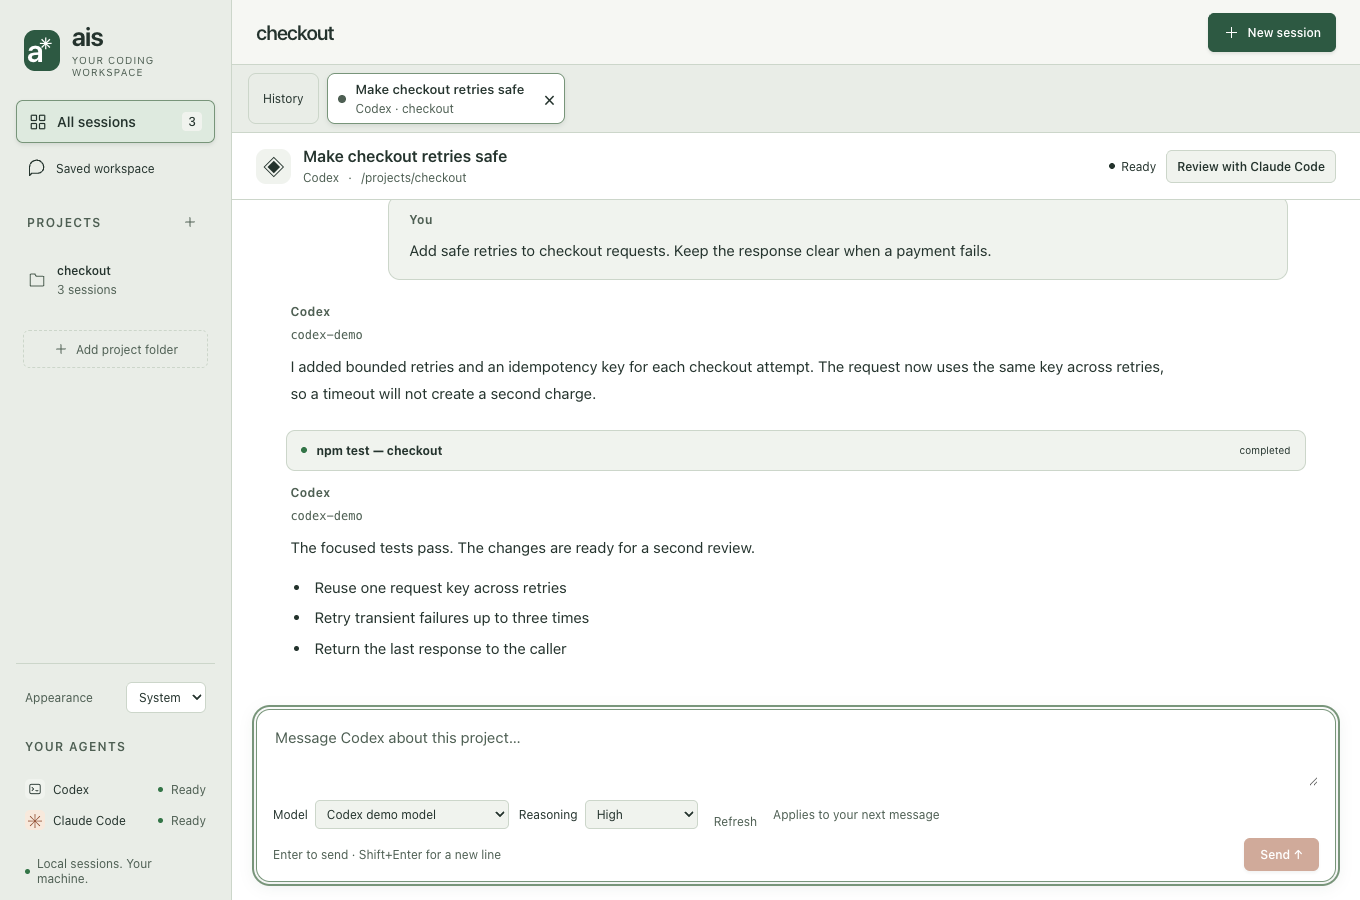
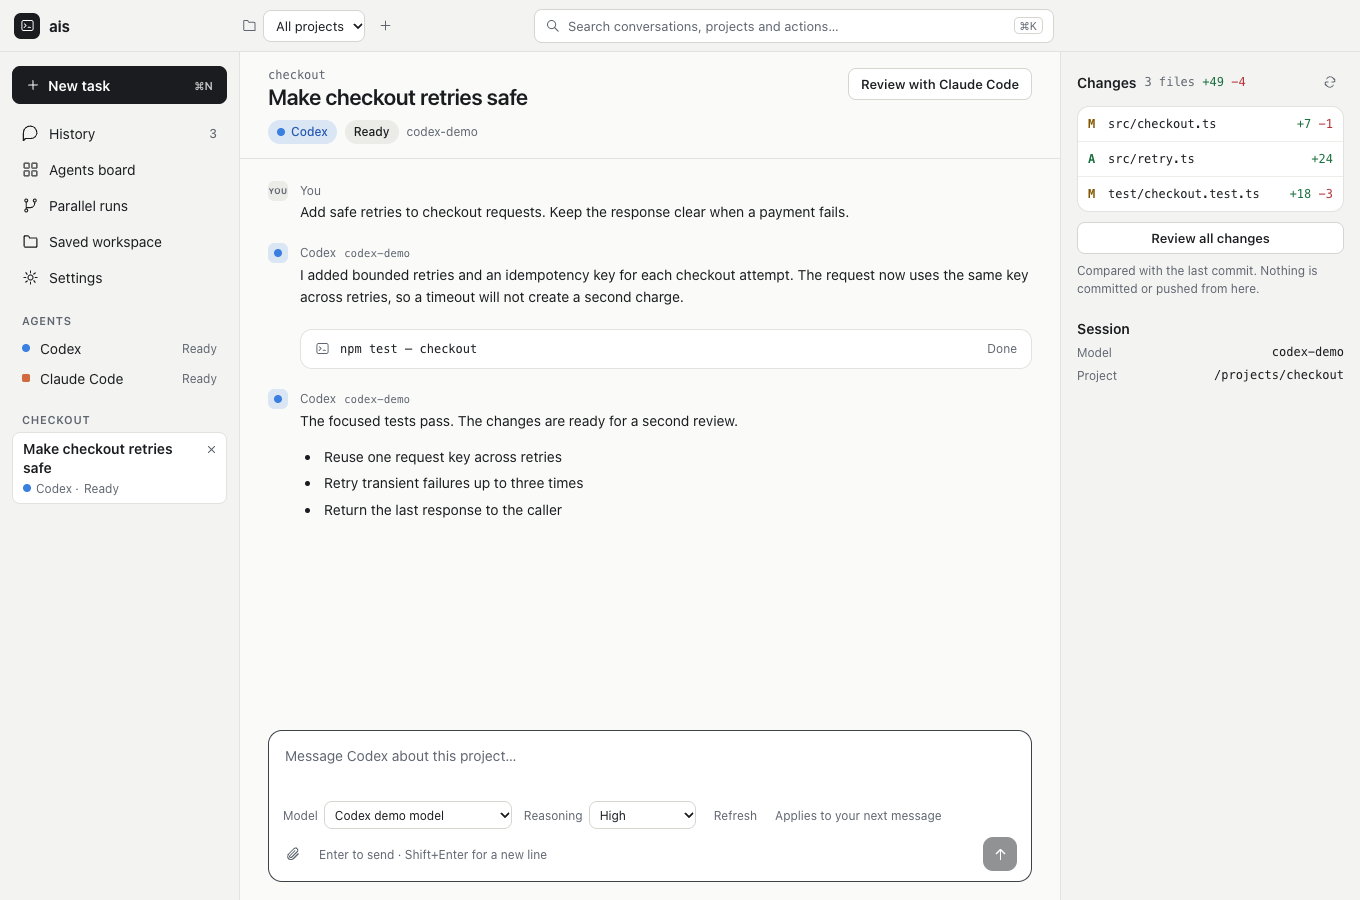
Update the desktop guide and screenshots for the redesigned app
The guide now describes the top bar, sidebar, command palette, agents
board, Changes panel, Settings and the new approval, stop and rename
flows. Screenshots are regenerated from the fixture checks, with new
captures of the board, palette and Settings. The roadmap points to #30.

Refs #30

Claude-Session: https://claude.ai/code/session_017ScqyAAUecnTB9rwNY9PY9

diff --git a/docs/DESKTOP.md b/docs/DESKTOP.md
@@ -65,11 +65,11 @@ is not yet published. The Homebrew CLI package does not install the desktop app.
 
 ## Screenshots
 
-Choose **System**, **Light**, or **Dark** under **Appearance** in the sidebar.
+Choose **System**, **Light**, or **Dark** under **Settings › Look**.
 System follows macOS appearance changes; an explicit choice stays active until
 you change it. The app remembers the preference in its WebView storage and applies
 it before the workspace loads. If the preference cannot be saved, it still
-applies for the current visit and the sidebar explains that limitation.
+applies for the current visit and Settings explains that limitation.
 
 These show the real React interface with fictional conversations and review data.
 They demonstrate the layout, not output from a live model run.
@@ -82,30 +82,63 @@ They demonstrate the layout, not output from a live model run.
 
 ![Review findings linked to files and ready to send back](screenshots/desktop-review.png)
 
+![Open conversations grouped by what they need](screenshots/desktop-board.png)
+
+![Command palette](screenshots/desktop-palette.png)
+
+![Settings](screenshots/desktop-settings.png)
+
+## Finding your way around
+
+- **Top bar**: the project switcher (with a button to add a project folder) and
+  the search field, which opens the command palette.
+- **Sidebar**: **New task**, then **History**, **Agents board**, **Parallel runs**,
+  **Saved workspace** and **Settings**; the two agents with how many of their
+  conversations are running or waiting; and your open conversations grouped by
+  project. A conversation that needs you is marked with an icon and warning text,
+  and the Dock icon shows how many are waiting.
+- **Command palette** (**⌘K**): jump to an action, an open conversation, a project
+  or any saved conversation. Choosing a saved conversation only shows it in
+  History; it never starts an agent.
+- **Agents board**: every open conversation in three columns, **Needs you** first.
+  A simple approval can be allowed once or denied on its card; requests with
+  questions are answered in the conversation.
+- **Changes** (right of a conversation, or the **Changes** button and **⌘\\** in
+  a narrow window): the project's uncommitted files against the last commit, with
+  added and removed line counts. Click a file or **Review all changes** to read the
+  diff. This is read-only: nothing is committed, pushed or reverted from the app.
+  A folder that is not a Git repository simply says so.
+
 ## Start or continue a conversation
 
-1. Select a project or **All sessions**. Search titles, project paths, branches,
-   tags and conversation contents; use the provider filters to narrow results.
+1. Open **History** and, if you like, pick a project in the top bar. Filter by
+   titles, project paths, branches, tags and conversation contents; use the agent
+   filters to narrow results.
 2. Select a saved conversation to preview it. **Continue in app** opens that
    provider's saved session in its recorded directory.
-3. For a fresh conversation, choose **New session**, select a project and provider,
+3. For a fresh conversation, choose **New task**, select a project and agent,
    then **Start in app**. Use **Browse** to choose another folder. The app remembers
    the twelve most recently added project folders.
 4. Type in the message box. **Enter** sends; **Shift+Enter** inserts a new line.
    A new provider process starts when you send the first message. Responses stream
-   into message bubbles, and expandable tool cards show commands and their output.
-5. Answer questions or choose **Allow once** / **Decline** on approval cards.
+   into the conversation. Consecutive tool calls are grouped into one block with a
+   row per step; expand a row to see its output. The paperclip adds the paths of
+   files you choose to your message.
+5. Answer questions or choose **Allow once** / **Deny** on approval cards. While
+   focus is inside a card, **Enter** allows a simple request and **Esc** denies it.
    Approvals retain the installed agent's normal permission behavior; ais does
    not bypass permissions. Unsupported requests fail closed and may require the CLI.
 
-Switch tabs or return to **History** while an agent works. **⌘K** opens history
-search, **⌘N** opens New session, and **Esc** closes the new-session dialog.
-History refreshes when a response finishes; the refresh button rescans manually.
+Switch conversations in the sidebar or return to **History** while an agent works.
+**⌘K** opens the command palette, **⌘N** opens New task, and **Esc** closes
+dialogs. History refreshes when a response finishes; the refresh button rescans
+manually. **Settings** lists all shortcuts.
 
-Tabs show conversation titles, agent/project context, and working, waiting or
-error states. **←/→**, **Home**, and **End** move between tabs when a tab has
-keyboard focus. Close a stopped or idle tab with its close button; saved work
-and drafts remain available. Busy tabs ask you to stop the response first.
+Sidebar rows show conversation titles, the agent, and working, waiting or error
+states in words. **↑/↓**, **Home**, and **End** move between open conversations
+when a row has keyboard focus. Close a stopped or idle conversation with its close
+button; saved work and drafts remain available. A busy conversation asks you to
+stop the response first.
 
 When you scroll back through a conversation, new messages keep your reading
 position. **Jump to latest** returns to the newest reply and resumes following.
@@ -116,44 +149,45 @@ Use **Pinned** or **Live** above history to narrow the list; their counts follow
 the current project, agent, and search. Choose **Pinned · Recent**, **Oldest first**,
 or **Title A–Z** to sort. Recent order keeps pinned conversations first. **Clear
 filters** resets search, agent, and status while keeping the selected project.
-The search clear button (or **Esc** in search) clears just the query.
+The filter's clear button (or **Esc** in the filter) clears just the query.
 
-Press **↓** in search to enter the list. **↑/↓**, **Home**, and **End** select and
+Press **↓** in the filter to enter the list. **↑/↓**, **Home**, and **End** select and
 preview conversations; **Enter** continues the focused conversation in the app.
-Tab moves to the other controls. Pinned conversations can be managed with
-`ais pin <id>` and `ais unpin <id>` in the CLI.
+Tab moves to the other controls. Rename, pin and tag the selected conversation from
+its preview, or with `ais rename`, `ais pin` and `ais tag` in the CLI; both edit
+the same ais annotations.
 
 ![Session history with status filters and sorting](screenshots/desktop-history.png)
 
-**Stop response** terminates that response's local process group. Files already
+**Stop response** asks first, then terminates that response's local process group. Files already
 changed remain changed; stopping is not an undo. Send a new message to continue
 using the provider's saved session. Up to eight responses can run concurrently,
-with up to 100 open tabs. Continuing an already-open native session selects the
+with up to 100 open conversations. Continuing an already-open native session selects the
 existing conversation instead of creating another copy.
 
 Unsent messages are saved on this Mac as you type, separately for each desktop
-conversation. Closing a tab or restarting the app keeps the draft. It is cleared
+conversation. Closing a conversation or restarting the app keeps the draft. It is cleared
 after a successful send or when you choose **Discard draft**; a failed send keeps
 the text. Drafts use the app WebView's local storage, separate from provider
 transcripts and `desktop-chats` records. Clearing the app's website data removes
 them. If storage is unavailable or full, the composer tells you to keep a copy;
 you can still write and send messages.
 
-Open tabs and review metadata persist across restarts. Closing a tab hides it
-and retains its local record. Normal provider conversations can be reopened from
+Open conversations and review metadata persist across restarts. Closing a
+conversation hides it and retains its local record. Normal provider conversations can be reopened from
 History; a review can also reopen its original conversation.
 
-Choose **Saved workspace** in the sidebar to find desktop conversations and independent reviews, including closed tabs and fresh
+Choose **Saved workspace** in the sidebar to find desktop conversations and independent reviews, including closed ones and fresh
 conversations that have not sent a message yet. Filter by project or type, or
 search titles, project paths and agents. The list includes review completion,
 finding/sent counts and file counts.
 
-**Reopen** restores the same tab and its saved state; **View** selects an already
-open tab. Neither starts an agent or consumes model usage. Reviews retain their
+**Reopen** restores the same conversation and its saved state; **View** selects an
+already open one. Neither starts an agent or consumes model usage. Reviews retain their
 captured diff and findings, including sent markers, even if their project folder
 has moved or is temporarily unavailable. Sending messages or requesting fixes
 still requires an available project and the normal snapshot checks. Opening a
-review's **Original conversation** link also saves that tab's reopened state.
+review's **Original conversation** link also saves that conversation's reopened state.
 Use **Esc** or the close button to leave the library. Native provider sessions
 remain available from History as before.
 

diff --git a/docs/ROADMAP.md b/docs/ROADMAP.md
@@ -48,6 +48,17 @@ Start with monitoring and review. Refine launch and stop interactions before
 adding them; show their effects and preserve task work. Integration remains a
 deliberate user action, with no automatic commit or merge.
 
+## Now: an everyday agent workspace
+
+[#30](https://github.com/caanmert/ai-session-tool/issues/30) gathers the redesign
+from the [agent-desktop design](design/agent-desktop/README.md) and the work that
+makes the app pleasant to use all day: a top bar and sidebar with open
+conversations, grouped tool steps, a clearer approval card and composer, changed
+files beside the conversation, an agents board, a command palette, Settings,
+rename/pin/tag from the app, and conversation updates that no longer poll. Frontend
+lint, format and browser checks run in CI. Work lands as a stack of focused PRs
+that reference #30.
+
 ## Then: release confidence
 
 [#16](https://github.com/caanmert/ai-session-tool/issues/16) covers clean
